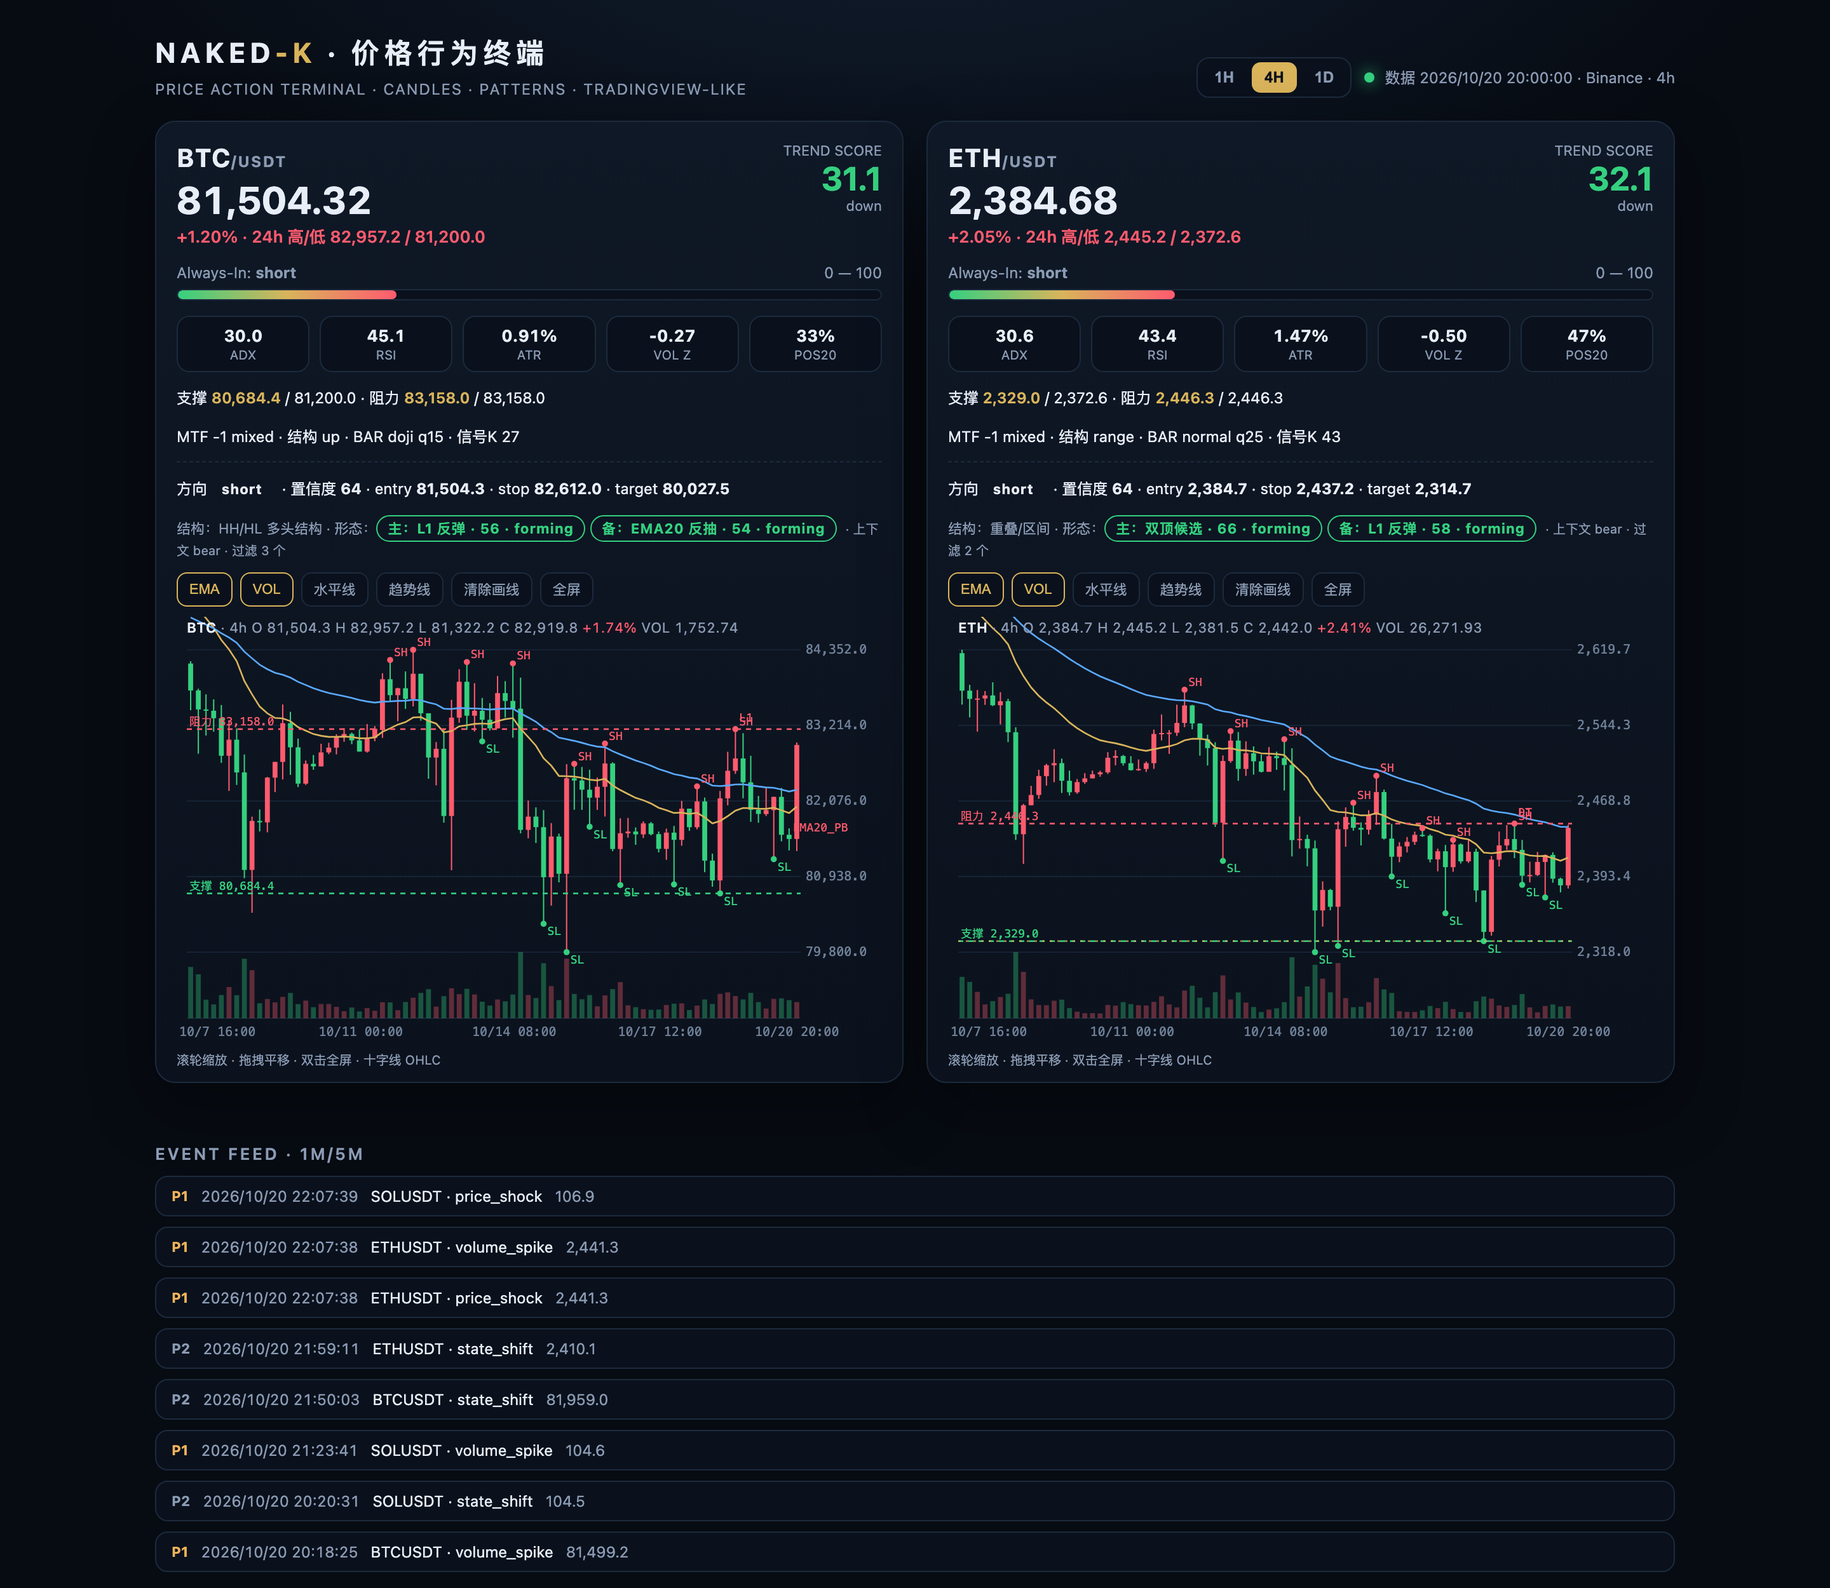
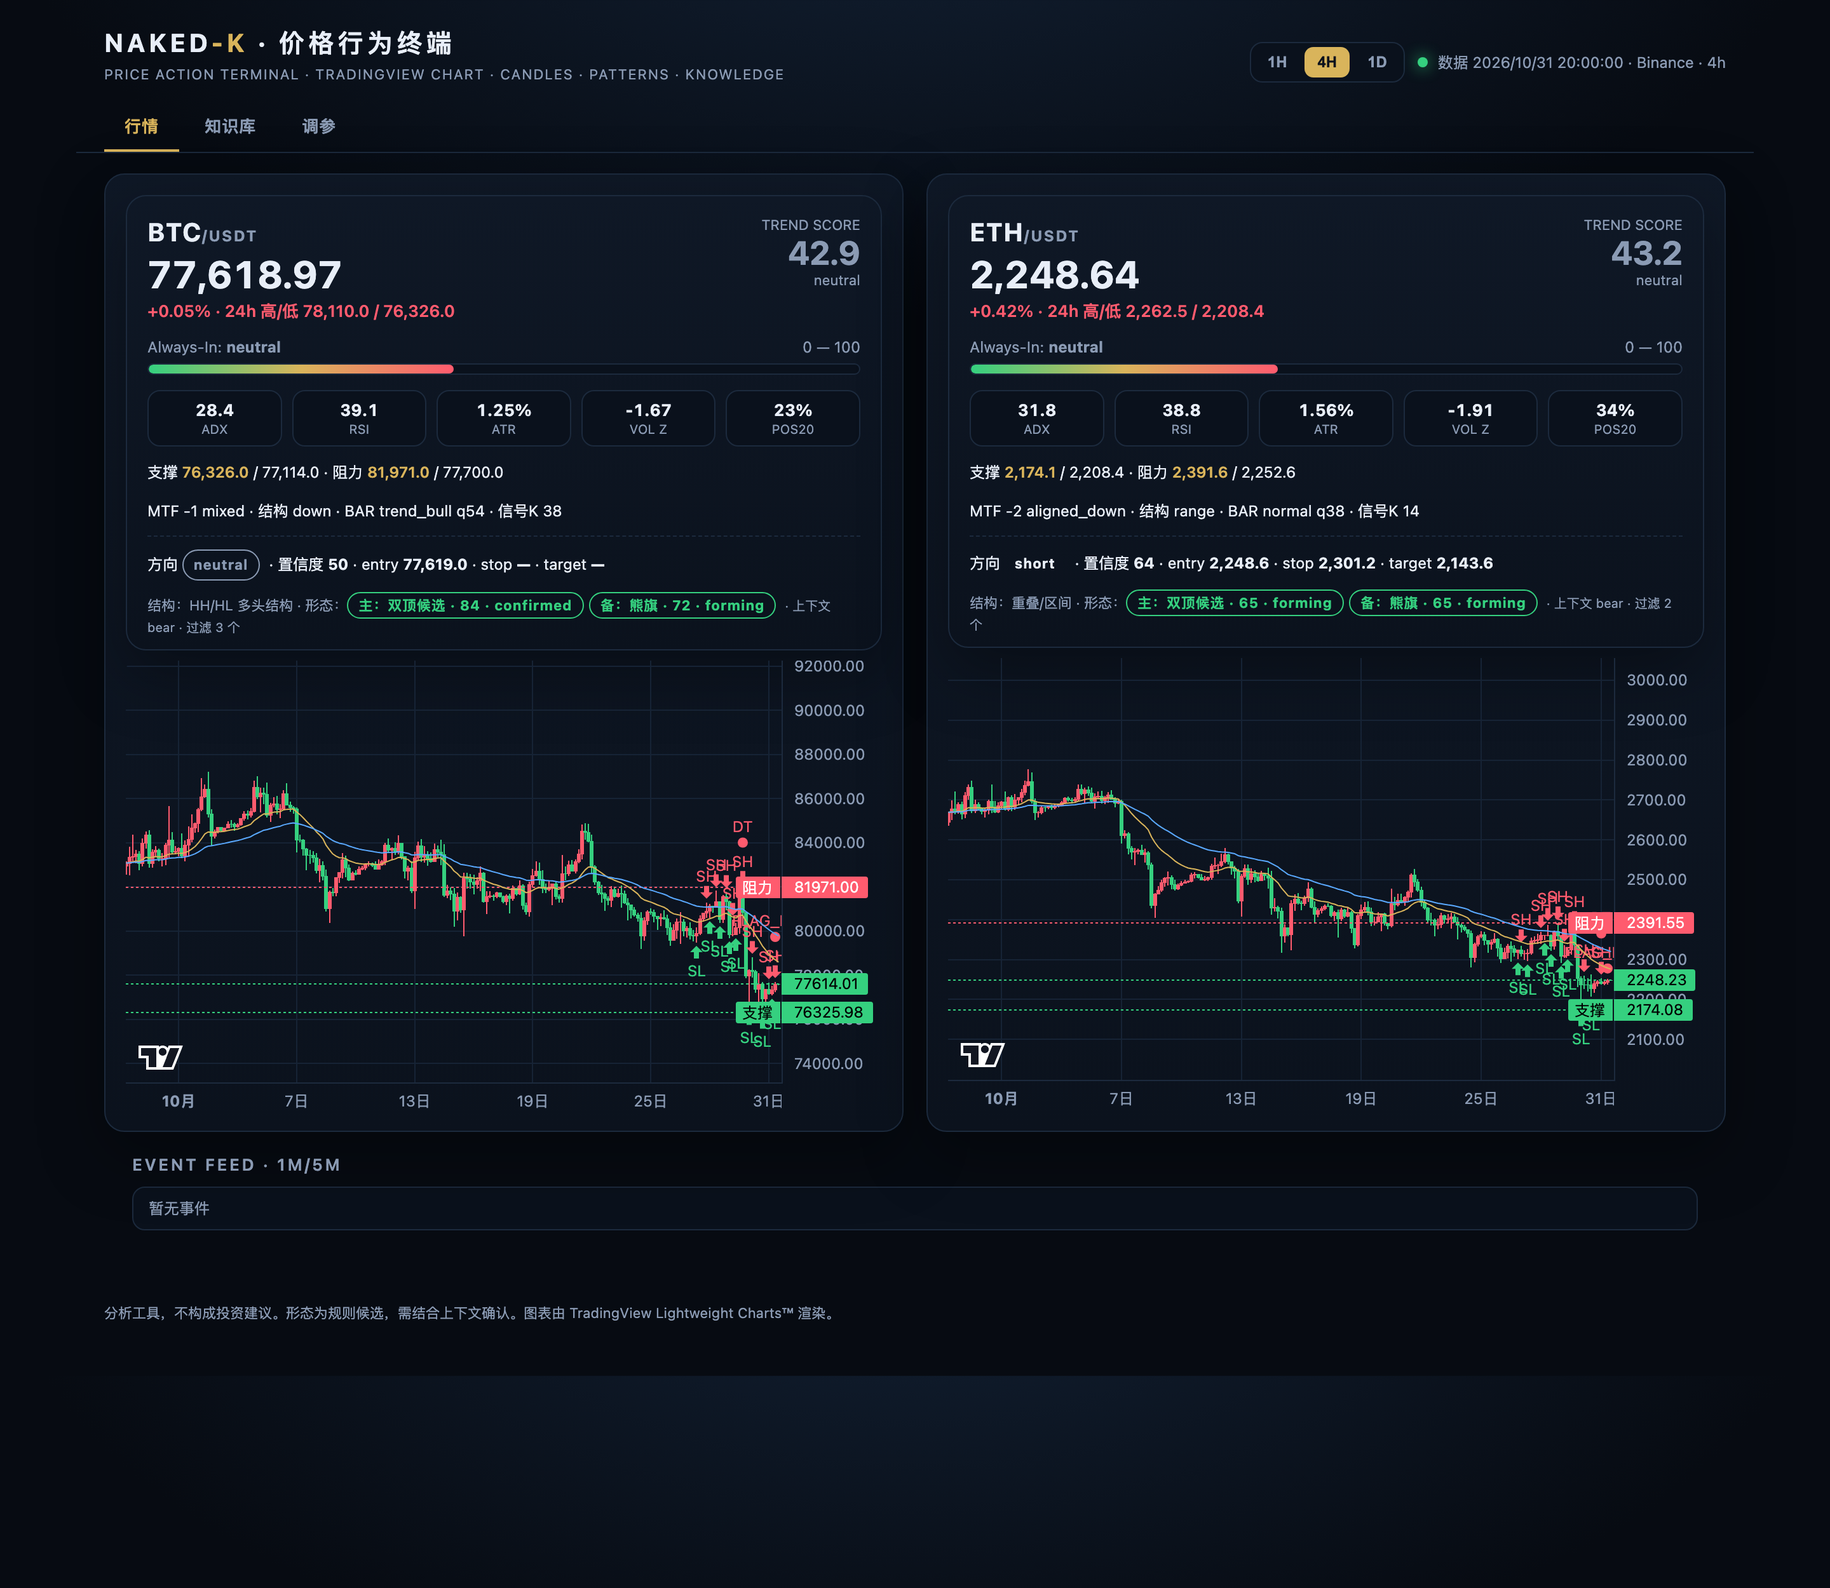
fix(dashboard): unbreak module import + concurrent fetch, stale-while-revalidate, chart reuse; refresh README screenshot

diff --git a/dashboard/index.html b/dashboard/index.html
@@ -121,17 +121,18 @@ footer{max-width:1320px;margin:0 auto;padding:18px 22px 40px;color:var(--muted);
 <footer>分析工具，不构成投资建议。形态为规则候选，需结合上下文确认。图表由 TradingView Lightweight Charts™ 渲染。</footer>
 <script src="/vendor/lwc.js"></script>
 <script>
-var TF='4h', DATA=null, CHARTS={};
+var TF='4h', DATA=null, CHARTS={}, CARDS={}, CTRL=null, LOAD_SEQ=0;
 var C={up:'#ff5b6e',down:'#35d07f',neutral:'#8b9bb4',gold:'#d9b45b',blue:'#5aa9ff',amber:'#f0b35b'};
 var CB=String.fromCharCode(96); var NL=String.fromCharCode(10);
 function fmt(n,d){ if(n===null||n===undefined) return '—'; return Number(n).toLocaleString('en-US',{minimumFractionDigits:d||2,maximumFractionDigits:d||2}); }
 function pct(n){ return (n>=0?'+':'')+Number(n).toFixed(2)+'%'; }
 function col(n){ return n>=0?C.up:C.down; }
-function makeChart(sym, s){
-  var el=document.getElementById('chart-'+sym); if(!el) return;
-  if(CHARTS[sym]){ try{CHARTS[sym].chart.remove();}catch(e){} }
-  if(!window.LightweightCharts){ el.textContent='图表库未加载'; return; }
+function chartFor(sym){
+  if(CHARTS[sym])return CHARTS[sym];
+  var el=document.getElementById('chart-'+sym); if(!el) return null;
+  if(!window.LightweightCharts){ el.textContent='图表库未加载'; return null; }
   var chart=LightweightCharts.createChart(el,{
+    autoSize:true,
     layout:{background:{color:'transparent'},textColor:'#8b9bb4',fontFamily:'Inter,system-ui'},
     grid:{vertLines:{color:'#162335'},horzLines:{color:'#162335'}},
     rightPriceScale:{borderColor:'#1c2a3d'},
@@ -142,26 +143,37 @@ function makeChart(sym, s){
     upColor:'#ff5b6e',downColor:'#35d07f',borderVisible:false,
     wickUpColor:'#ff5b6e',wickDownColor:'#35d07f',
   });
-  candles.setData((s.candles||[]).map(function(k){ return {time:k.t/1000,open:k.o,high:k.h,low:k.l,close:k.c}; }));
-  function addLine(vals,color){
-    var ln=chart.addLineSeries({color:color,lineWidth:1,priceLineVisible:false,lastValueVisible:false,crosshairMarkerVisible:false});
-    var d=[];(vals||[]).forEach(function(v,i){ if(v===undefined||v===null)return; d.push({time:s.candles[i].t/1000,value:v}); });
-    ln.setData(d);
-  }
-  addLine(s.ema20_series,C.gold); addLine(s.ema50_series,C.blue);
-  function hline(p,color,label){ if(p===null||p===undefined)return; candles.createPriceLine({price:p,color:color,lineWidth:1,lineStyle:2,axisLabelVisible:true,title:label}); }
-  hline(s.r20_lo,C.down,'支撑'); hline(s.r20_hi,C.up,'阻力');
-  function marks(arr,dir){
-    var out=[];(arr||[]).forEach(function(pt){ if(pt.i>=0&&pt.i<s.candles.length){ out.push({time:s.candles[pt.i].t/1000,position:dir,color:dir==='aboveBar'?C.down:C.up,shape:dir==='aboveBar'?'arrowDown':'arrowUp',text:dir==='aboveBar'?'SH':'SL'}); } });
-    return out;
-  }
-  candles.setMarkers(marks(s.swing_marks&&s.swing_marks.highs,'aboveBar').concat(marks(s.swing_marks&&s.swing_marks.lows,'belowBar')));
-  var pm=[];(s.patterns||[]).forEach(function(pt){ if(pt.role==='suppressed')return; if(pt.index!=null&&pt.index>=0&&pt.index<s.candles.length){ var pos=pt.direction==='bullish'?'belowBar':pt.direction==='bearish'?'aboveBar':'belowBar'; pm.push({time:s.candles[pt.index].t/1000,position:pos,color:pt.direction==='bullish'?C.down:pt.direction==='bearish'?C.up:C.gold,shape:'circle',text:pt.type}); } });
-  candles.setMarkers(pm);
-  chart.timeScale().fitContent();
-  CHARTS[sym]={chart:chart};
+  var lineOpts={lineWidth:1,priceLineVisible:false,lastValueVisible:false,crosshairMarkerVisible:false};
+  var rec={chart:chart,candles:candles,
+    e20:chart.addLineSeries(Object.assign({color:C.gold},lineOpts)),
+    e50:chart.addLineSeries(Object.assign({color:C.blue},lineOpts)),
+    lines:[],first:true};
+  CHARTS[sym]=rec;
+  return rec;
 }
-function card(sym,s){
+function seriesData(vals,ks){
+  var d=[];(vals||[]).forEach(function(v,i){ if(v===undefined||v===null)return; var k=ks[i]; if(!k)return; d.push({time:k.t/1000,value:v}); });
+  return d;
+}
+function updateChart(sym,s){
+  var rec=chartFor(sym); if(!rec) return;
+  var ks=s.candles||[]; if(!ks.length) return;
+  rec.candles.setData(ks.map(function(k){ return {time:k.t/1000,open:k.o,high:k.h,low:k.l,close:k.c}; }));
+  rec.e20.setData(seriesData(s.ema20_series,ks));
+  rec.e50.setData(seriesData(s.ema50_series,ks));
+  rec.lines.forEach(function(l){ try{rec.candles.removePriceLine(l);}catch(e){} });
+  rec.lines=[];
+  function hline(p,color,label){ if(p===null||p===undefined)return; rec.lines.push(rec.candles.createPriceLine({price:p,color:color,lineWidth:1,lineStyle:2,axisLabelVisible:true,title:label})); }
+  hline(s.r20_lo,C.down,'支撑'); hline(s.r20_hi,C.up,'阻力');
+  var mk=[], sm=s.swing_marks||{};
+  function marks(arr,dir){ (arr||[]).forEach(function(pt){ var k=ks[pt.i]; if(!k)return; mk.push({time:k.t/1000,position:dir,color:dir==='aboveBar'?C.up:C.down,shape:dir==='aboveBar'?'arrowDown':'arrowUp',text:dir==='aboveBar'?'SH':'SL'}); }); }
+  marks(sm.highs,'aboveBar'); marks(sm.lows,'belowBar');
+  (s.patterns||[]).forEach(function(pt){ if(pt.role==='suppressed')return; var k=ks[pt.index]; if(!k)return; var pos=pt.direction==='bullish'?'belowBar':pt.direction==='bearish'?'aboveBar':'belowBar'; mk.push({time:k.t/1000,position:pos,color:pt.direction==='bullish'?C.down:pt.direction==='bearish'?C.up:C.gold,shape:'circle',text:pt.type}); });
+  mk.sort(function(a,b){ return a.time-b.time; });
+  rec.candles.setMarkers(mk);
+  if(rec.first){ rec.chart.timeScale().fitContent(); rec.first=false; }
+}
+function cardBody(sym,s){
   var tr=s.trend||{},st=s.stance||{},dir=st.direction||'neutral';
   var mtf=s.mtf||{},sv=s.structure_v2||{},bp=s.bar||{},sb=s.signalbar||{};
   var mtfTxt='MTF '+(mtf.alignment==null?'—':(mtf.alignment>0?'+'+mtf.alignment:String(mtf.alignment)))+' '+(mtf.label||'—');
@@ -190,15 +202,26 @@ function card(sym,s){
     +'<div class="levels">支撑 <b>'+fmt(s.r20_lo,1)+'</b> / '+fmt((s.swing_lows||[]).slice(-1)[0]||s.low24h,1)+' · 阻力 <b>'+fmt(s.r20_hi,1)+'</b> / '+fmt((s.swing_highs||[]).slice(-1)[0]||s.high24h,1)+'</div>'
     +'<div class="levels">'+mtfTxt+' · '+stTxt+' · '+barTxt+sbTxt+'</div>'
     +'<div class="sig">'+sig+'</div>'
-    +'<div style="margin-top:7px;font-size:11px;color:var(--muted)">结构：'+(s.structure||'—')+' · 形态：'+pats+'</div>'
-    +'<div class="chart-wrap"><div class="tv-chart" id="chart-'+sym+'"></div></div>'
-    +'</article>';
+    +'<div style="margin-top:7px;font-size:11px;color:var(--muted)">结构：'+(s.structure||'—')+' · 形态：'+pats+'</div>';
+}
+function createCard(sym){
+  var art=document.createElement('article');
+  art.className='card';
+  art.innerHTML='<div class="card-body"></div><div class="chart-wrap"><div class="tv-chart" id="chart-'+sym+'"></div></div>';
+  return art;
 }
 function render(){
   if(!DATA)return;
   var g=document.getElementById('grid');var keys=Object.keys(DATA.symbols||{});
-  g.innerHTML=keys.map(function(k){return card(k,DATA.symbols[k]);}).join('');
-  keys.forEach(function(sym){ makeChart(sym,DATA.symbols[sym]); });
+  Object.keys(CARDS).forEach(function(k){ if(keys.indexOf(k)<0){ try{g.removeChild(CARDS[k]);}catch(e){} delete CARDS[k]; if(CHARTS[k]){try{CHARTS[k].chart.remove();}catch(e){} delete CHARTS[k];} } });
+  keys.forEach(function(sym,i){
+    var el=CARDS[sym];
+    if(!el){ el=createCard(sym); CARDS[sym]=el; }
+    var at=g.children[i];
+    if(at!==el)g.insertBefore(el,at||null);
+    el.querySelector('.card-body').innerHTML=cardBody(sym,DATA.symbols[sym]);
+    updateChart(sym,DATA.symbols[sym]);
+  });
   var first=keys[0];var dts=first?DATA.symbols[first].data_ts:DATA.as_of;
   document.getElementById('asof').textContent='数据 '+new Date(dts).toLocaleString('zh-CN',{hour12:false})+' · Binance · '+TF;
   var ev=document.getElementById('events');
@@ -210,8 +233,19 @@ function render(){
 }
 async function load(tf){
   TF=tf;document.querySelectorAll('#tf button').forEach(function(b){b.classList.toggle('on',b.getAttribute('data-tf')===tf);});
-  try{var r=await fetch('/api/overview?interval='+tf);DATA=await r.json();render();}
-  catch(e){document.getElementById('asof').textContent='数据源异常';}
+  if(CTRL)CTRL.abort();
+  CTRL=(typeof AbortController!=='undefined')?new AbortController():null;
+  var seq=++LOAD_SEQ;
+  try{
+    var r=await fetch('/api/overview?interval='+tf,{signal:CTRL?CTRL.signal:undefined,cache:'no-store'});
+    if(!r.ok)throw new Error('HTTP '+r.status);
+    var d=await r.json();
+    if(seq!==LOAD_SEQ)return;
+    DATA=d;render();
+  }catch(e){
+    if(e&&e.name==='AbortError')return;
+    document.getElementById('asof').textContent='数据源异常';
+  }
 }
 function esc(s){return s.replace(/&/g,'&amp;').replace(/</g,'&lt;').replace(/>/g,'&gt;');}
 function mdToHtml(src){
@@ -342,7 +376,6 @@ document.querySelectorAll('#tabs button').forEach(function(b){
   });
 });
 document.querySelectorAll('#tf button').forEach(function(b){b.addEventListener('click',function(){load(b.getAttribute('data-tf'));});});
-window.addEventListener('resize',function(){ Object.keys(CHARTS).forEach(function(k){try{CHARTS[k].chart.applyOptions({width:document.getElementById('chart-'+k).clientWidth});}catch(e){}}); });
 load('4h');
 setInterval(function(){ if(!document.hidden) load(TF); },60000);
 document.addEventListener('visibilitychange',function(){ if(!document.hidden) load(TF); });

diff --git a/dashboard/server.py b/dashboard/server.py
@@ -5,8 +5,16 @@ import gzip
 import json
 import os
 import sqlite3
+import sys
 import threading
 import time
+from concurrent.futures import ThreadPoolExecutor
+
+# Allow `python3 dashboard/server.py` from the repo root (or any cwd):
+# the repo root must be importable so `nakedk` / `beagle` resolve.
+_REPO_ROOT = os.path.dirname(os.path.dirname(os.path.abspath(__file__)))
+if _REPO_ROOT not in sys.path:
+    sys.path.insert(0, _REPO_ROOT)
 from http.server import BaseHTTPRequestHandler, ThreadingHTTPServer
 from urllib.parse import parse_qs, urlparse
 
@@ -30,9 +38,19 @@ KB_DIR = os.path.join(os.path.dirname(os.path.dirname(os.path.abspath(__file__))
 DRAWINGS = os.path.join(os.path.dirname(__file__), "..", "drawings.json")
 PATTERN_DB = os.environ.get("NK_PATTERN_DB", os.path.join(os.path.dirname(__file__), "..", "patterns.db"))
 TOKEN = os.environ.get("NK_DASH_TOKEN", "")
-CACHE_TTL = 60
+CACHE_TTL = 60          # serve exactly this fresh window
+STALE_TTL = 900         # after that, serve stale while refreshing in background
+SYMBOLS = ("BTCUSDT", "ETHUSDT")
 _cache = {}
 _lock = threading.Lock()
+_build_locks = {}
+_refreshing = set()
+_exec = ThreadPoolExecutor(max_workers=8, thread_name_prefix="nk-fetch")
+
+
+def _interval_lock(interval):
+    with _lock:
+        return _build_locks.setdefault(interval, threading.Lock())
 
 
 def load_drawings():
@@ -80,25 +98,86 @@ def structure_label(hs, ls):
     return "重叠/区间"
 
 
+def _refresh_async(interval):
+    """Refresh one interval in the background without blocking readers."""
+    with _lock:
+        if interval in _refreshing:
+            return
+        _refreshing.add(interval)
+
+    def run():
+        try:
+            _build_now(interval)
+        except Exception:
+            pass
+        finally:
+            with _lock:
+                _refreshing.discard(interval)
+
+    threading.Thread(target=run, name="nk-refresh-" + interval, daemon=True).start()
+
+
+def _prefetch(interval):
+    """Fetch every network resource for all symbols concurrently."""
+    futs = {}
+    for sym in SYMBOLS:
+        futs[(sym, "ticker")] = _exec.submit(ticker, sym)
+        futs[(sym, "klines")] = _exec.submit(klines, sym, interval, 200)
+        futs[(sym, "mtf")] = _exec.submit(mtf_alignment, sym)
+        futs[(sym, "day")] = _exec.submit(klines, sym, "1d", 5)
+    bundle = {}
+    for sym in SYMBOLS:
+        t = futs[(sym, "ticker")].result()
+        ks = futs[(sym, "klines")].result()
+        try:
+            mtf = futs[(sym, "mtf")].result()
+        except Exception:
+            mtf = {"by_tf": {"1d": 0, "4h": 0, "1h": 0}, "alignment": 0, "label": "unknown"}
+        try:
+            day = futs[(sym, "day")].result()
+        except Exception:
+            day = []
+        bundle[sym] = (t, ks, mtf, day)
+    return bundle
+
+
 def build(interval="4h"):
+    """Return the dashboard payload, using a fresh cache or stale-while-revalidate."""
     if interval not in VALID:
         interval = "4h"
     now = int(time.time() * 1000)
     c = _cache.get(interval)
-    if c and now - c["ts"] < CACHE_TTL * 1000:
-        return c["data"]
+    if c:
+        age = (now - c["ts"]) / 1000.0
+        if age < CACHE_TTL:
+            return c["data"]
+        if age < STALE_TTL:
+            _refresh_async(interval)
+            return c["data"]
+    return _build_now(interval)
+
+
+def _build_now(interval):
+    """Build the payload once per interval (single-flight); network in parallel."""
+    if interval not in VALID:
+        interval = "4h"
+    with _interval_lock(interval):
+        now = int(time.time() * 1000)
+        c = _cache.get(interval)
+        if c and now - c["ts"] < CACHE_TTL * 1000:
+            return c["data"]
+        return _build_uncached(interval, now)
+
+
+def _build_uncached(interval, now):
     params = load_params()
     out = {"as_of": now, "interval": interval, "symbols": {},
            "events": [], "alerts": [], "params": params}
-    for sym in ("BTCUSDT", "ETHUSDT"):
-        t = ticker(sym)
-        ks = klines(sym, interval, 200)
+    bundle = _prefetch(interval)
+    for sym in SYMBOLS:
+        t, ks, mtf, day = bundle[sym]
         k_closed = closed_bars(ks, interval)
         f = features_from_klines(k_closed)
-        try:
-            mtf = mtf_alignment(sym)
-        except Exception:
-            mtf = {"by_tf": {"1d": 0, "4h": 0, "1h": 0}, "alignment": 0, "label": "unknown"}
         f["mtf_alignment"] = mtf["alignment"]
         st = stance(f, params)
         ts = trend_score(f, params)
@@ -121,7 +200,7 @@ def build(interval="4h"):
         prev_bar = profiles[-2] if len(profiles) > 1 else None
         struct_v2 = structure_of(k_closed)
         vp = vpoc(k_closed)
-        sess = session_levels(closed_bars(klines(sym, "1d", 5), "1d"))
+        sess = session_levels(closed_bars(day, "1d"))
         lv = struct_v2.get("levels", {})
         loc = {
             "edge": edge_zone(f.get("pos20")),
@@ -182,7 +261,8 @@ def build(interval="4h"):
         conn.close()
     except Exception as e:
         out["db_error"] = str(e)
-    _cache[interval] = {"ts": now, "data": out}
+    out["elapsed_ms"] = int((time.time() * 1000) - now)
+    _cache[interval] = {"ts": int(time.time() * 1000), "data": out}
     return out
 
 
@@ -345,5 +425,16 @@ class Handler(BaseHTTPRequestHandler):
 
 if __name__ == "__main__":
     port = int(os.environ.get("PORT", "8080"))
+
+    def _warm():
+        # Pre-build so the first browser hit is instant instead of waiting
+        # for a cold 4h payload (~tens of seconds on slow links).
+        for interval in ("4h", "1h", "1d"):
+            try:
+                _build_now(interval)
+            except Exception:
+                pass
+
+    threading.Thread(target=_warm, name="nk-warm", daemon=True).start()
     print(f"naked-k dashboard on :{port}")
     ThreadingHTTPServer(("0.0.0.0", port), Handler).serve_forever()

diff --git a/CHANGELOG.md b/CHANGELOG.md
@@ -1,5 +1,21 @@
 # Changelog
 
+## 1.0.1 — 2026-10-31
+
+修复仪表盘空白与加载慢。
+
+### 修复
+- `dashboard/server.py` 自行把仓库根加入 `sys.path`，`python3 dashboard/server.py` 在任意 cwd 下都能导入 `nakedk` / `beagle`，不再直接抛 `ModuleNotFoundError` 导致整页空白。
+
+### 性能
+- 行情抓取改为并发：两个标的的 ticker / K 线 / 多周期 / 日线一次并发取回（冷启动约 25s → 约 4s）。
+- 缓存策略改为 fresh 60s + stale-while-revalidate（15 分钟内直接返回旧数据并后台刷新），前端轮询基本 0 等待（热请求约 2ms）。
+- 启动时后台预热 4h/1h/1d，首个访问不再等冷构建。
+- 前端图表不再每次轮询销毁重建：复用 Lightweight Charts 实例，只 `setData` 更新；`autoSize` 自适应容器；K 线与摆动点/形态标注合并为一次 `setMarkers`；请求可中断（AbortController），切换周期不再堆积响应。
+
+### 文档
+- README 仪表盘截图更新为修复后的真实渲染。
+
 ## 1.0.0 — 2026-10-31
 
 版本统一 v1.0.0：前端升级 + 工程优化。此版本起以 v1.0 为准。
